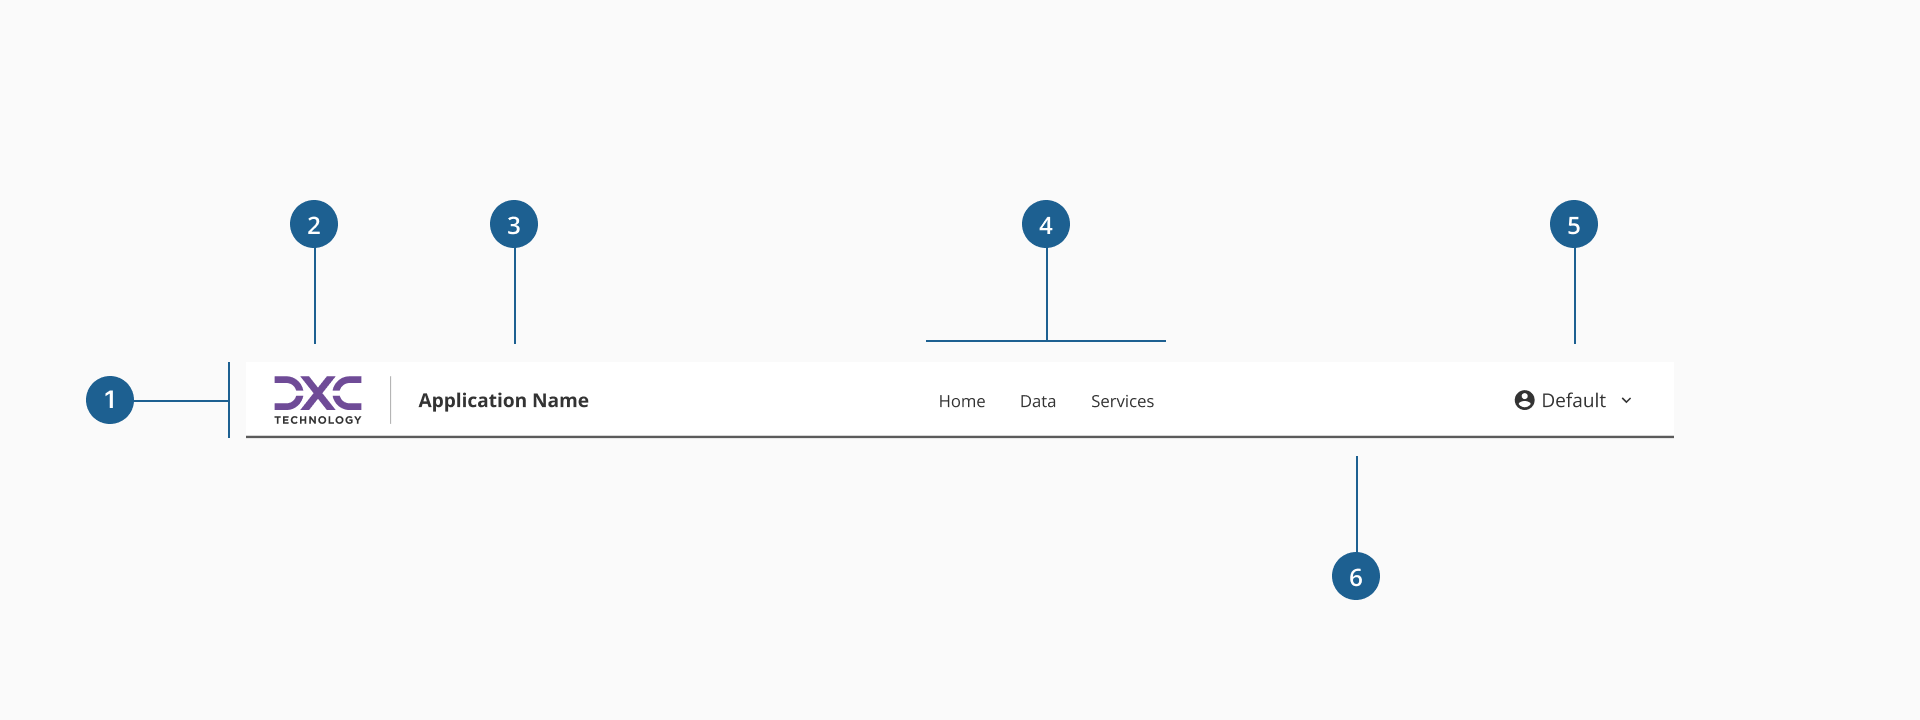
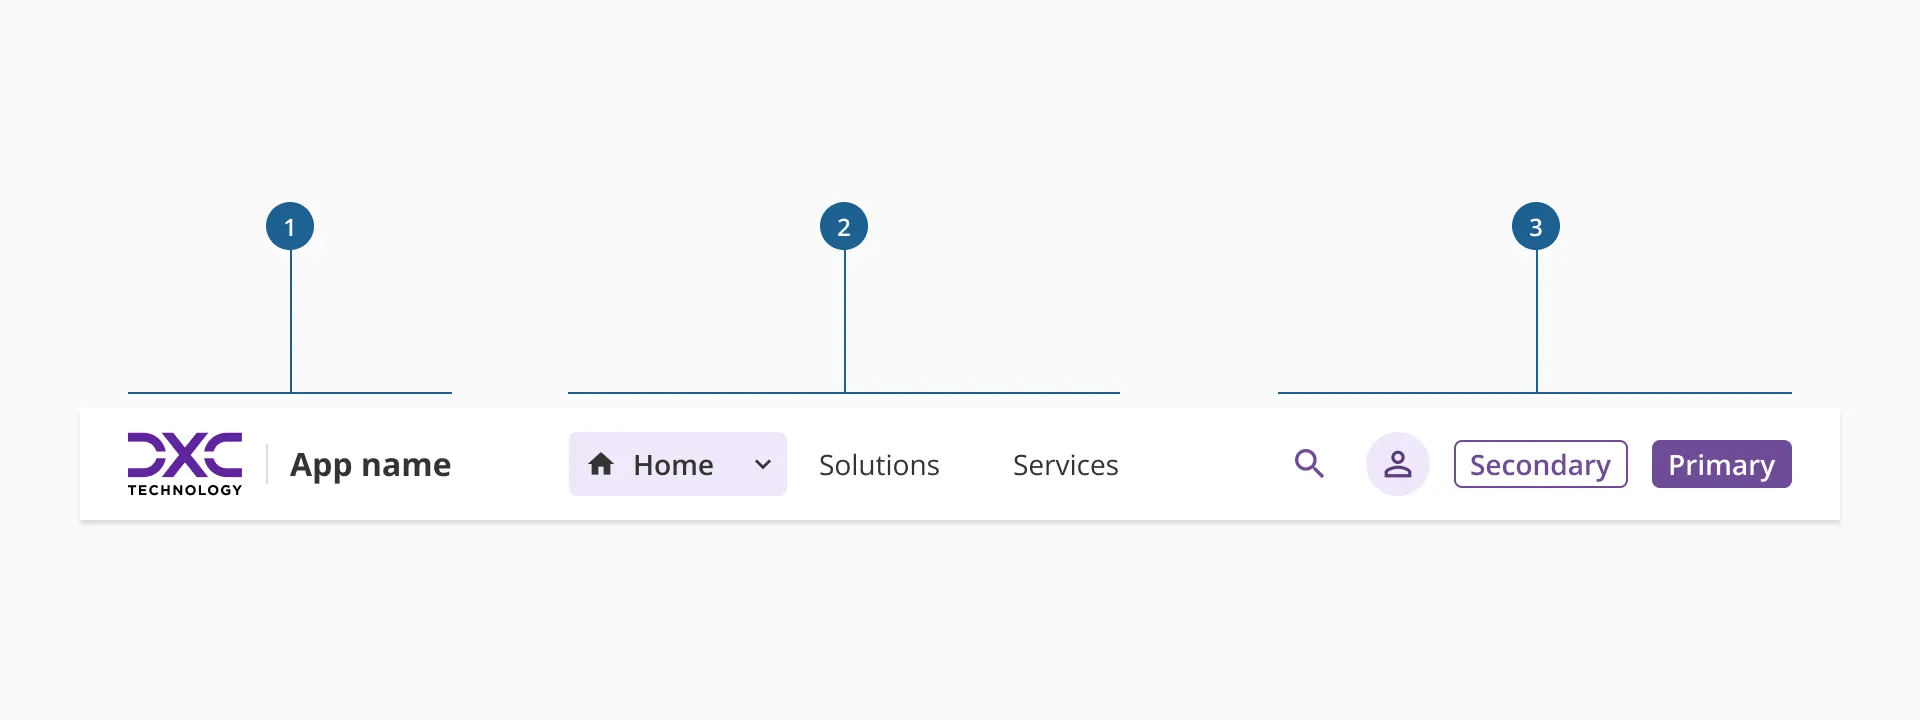
Header new implementation overview documentation

diff --git a/apps/website/screens/components/header/overview/HeaderOverviewPage.tsx b/apps/website/screens/components/header/overview/HeaderOverviewPage.tsx
@@ -1,6 +1,12 @@
 import { DxcBulletedList, DxcFlex, DxcParagraph } from "@dxc-technology/halstack-react";
 import DocFooter from "@/common/DocFooter";
+import Image from "@/common/Image";
+import Figure from "@/common/Figure";
 import QuickNavContainer from "@/common/QuickNavContainer";
+import anatomy from "./images/header_anatomy.png";
+import leftSlot from "./images/left_slot.png";
+import mainNav from "./images/main_nav.png";
+import rightSlot from "./images/right_slot.png";
 
 const sections = [
   {
@@ -8,8 +14,9 @@ const sections = [
     content: (
       <DxcParagraph>
         The Header serves as the primary navigation and identity element for an application. It includes branding, quick
-        access to key sections via navigation links, and a customizable side content. Its consistent presence reinforces
-        brand recognition and improves usability by offering easy navigation and access to quick actions.
+        access to key sections via navigation links, and a user account menu. Its consistent presence reinforces brand
+        recognition and improves usability by offering easy navigation and access to user-related actions. It typically
+        contains three main areas: left slot, main navigation and right slot.
       </DxcParagraph>
     ),
   },
@@ -17,75 +24,217 @@ const sections = [
     title: "Anatomy",
     content: (
       <>
-        {/* <Image src={anatomy} alt="Header anatomy" /> */}
+        <Image src={anatomy} alt="Header anatomy" />
         <DxcBulletedList type="number">
           <DxcBulletedList.Item>
-            <strong>Container:</strong> a layout structure that wraps all Header elements, ensuring consistent
-            alignment, spacing, and maximum width limits. The container helps keep the header properly aligned across
-            different screen sizes.
+            <strong>Left slot:</strong> it's where the branding and application name is displayed.
           </DxcBulletedList.Item>
           <DxcBulletedList.Item>
-            <strong>Brand Image:</strong> a clear, balanced logo that fits well within the header without overpowering
-            other elements.
+            <strong>Main navigation:</strong> a section that allows access to primary and secondary navigational levels,
+            which purposes is to guide the user through the primary levels of the interface.
+            {/* It is also where the searchbar will be displayed once that feature is triggered. */}
           </DxcBulletedList.Item>
           <DxcBulletedList.Item>
-            <strong>Application Name</strong> <em>(Optional)</em>: a short, recognizable application name placed next to
-            the logo to reinforce brand identity.
-          </DxcBulletedList.Item>
-          <DxcBulletedList.Item>
-            <strong>Navigation Links</strong> <em>(Optional)</em>: key links to main sections of the application.
-          </DxcBulletedList.Item>
-          <DxcBulletedList.Item>
-            <strong>Side Content</strong> <em>(Optional)</em>: a customizable area for user-specific actions such as
-            profile, settings, or logout, triggered by click or keyboard focus.
+            <strong>Right slot:</strong> it's the place where all utilities related to an application are hosted. It’s
+            highly adaptable for each product's needs.
           </DxcBulletedList.Item>
         </DxcBulletedList>
       </>
     ),
   },
   {
-    title: "Responsive version",
-    content: (
-      <>
-        <DxcParagraph>
-          Applications are accessed on a wide range of devices, including laptops, tablets, and smartphones. To support
-          this, the header must be designed to scale responsively across screen sizes. The responsive header should
-          preserve the structural layout and visual hierarchy of the desktop version, ensuring consistency and usability
-          across all platforms.
-        </DxcParagraph>
-        <DxcParagraph>
-          "On smaller screens, the header content is replaced by a button. Triggering this button opens a menu that
-          displays navigation links and a bottom section."
-        </DxcParagraph>
-      </>
-    ),
+    title: "Key interactions and features",
+    subSections: [
+      {
+        title: "Left slot",
+        content: (
+          <>
+            <DxcParagraph>
+              The left slot hosts all branding elements of the product, application, or website. It is the visual anchor
+              of the header and helps users quickly identify the environment they are interacting with.
+            </DxcParagraph>
+            <DxcParagraph>
+              The <strong>logo</strong> is a required element in every implementation of the header, ensuring brand
+              presence and recognition across all platforms. It must always be displayed inside a fixed container to
+              maintain consistency in size and alignment with other header elements.
+            </DxcParagraph>
+            <DxcParagraph>
+              The <strong>name</strong> of the product or service is <strong>optional</strong> and can be placed to the
+              right of the logo. When included, it reinforces brand identity and provides additional
+              context—particularly useful in multi-product ecosystems or environments where the logo alone may not be
+              distinctive enough.
+            </DxcParagraph>
+            <DxcParagraph>
+              Both elements together should remain visually balanced, with consistent spacing and vertical alignment,
+              contributing to a cohesive and professional visual hierarchy.
+            </DxcParagraph>
+            <Figure caption="Left slot configuration of the header component.">
+              <Image src={leftSlot} alt="Left slot configuration" />
+            </Figure>
+          </>
+        ),
+      },
+      {
+        title: "Main navigation",
+        content: (
+          <>
+            <DxcParagraph>
+              The main navigation section occupies the central area of the header and serves as the{" "}
+              <strong>primary entry point</strong> for exploring the product or application. It spans the full available
+              width, making it the most visually dominant and functionally important area of the component.
+            </DxcParagraph>
+            <DxcParagraph>
+              Navigation items within this section can be either <strong>single-level links</strong> or{" "}
+              <strong>expandable items</strong> that reveal one additional level of navigation. This two-level limit is
+              intentional and designed to keep the header focused on orientation rather than deep exploration. The goal
+              is to help users understand where they are and move between high-level areas efficiently, while deeper
+              navigation is delegated to components such as the sidenav.
+            </DxcParagraph>
+            {/* <DxcParagraph>
+              When the total width of navigation items exceeds the available horizontal space, the header automatically
+              groups the overflow items into a <strong>new expandable item</strong> (typically labeled "More" or
+              equivalent). This ensures the navigation remains usable and visually balanced across different screen
+              sizes and configurations.
+            </DxcParagraph> */}
+            <DxcParagraph>
+              Each navigation item should provide clear affordances for interaction, indicating whether it leads
+              directly to a section or expands to show sub-options.
+            </DxcParagraph>
+            <Figure caption="Header with expandable content">
+              <Image src={mainNav} alt="Header with expandable content" />
+            </Figure>
+          </>
+        ),
+      },
+      {
+        title: "Right slot",
+        content: (
+          <>
+            <DxcParagraph>
+              The right slot is reserved for <strong>utilities and user actions</strong> that support quick access to
+              key functions within the product or application. It typically includes elements such as search,
+              notifications, settings, help, or user profile; but its configuration is intentionally flexible to adapt
+              to different product contexts.
+            </DxcParagraph>
+            <DxcParagraph>
+              While some elements may be predefined or recommended as part of the default header configuration, this
+              area remains <strong>open and customizable</strong>, allowing teams to include, remove, or reorder actions
+              according to their needs.
+            </DxcParagraph>
+            <DxcParagraph>
+              This flexible structure allows the right slot to serve both standardized and product-specific use cases
+              without compromising the header's overall consistency and usability.
+            </DxcParagraph>
+            <DxcParagraph>
+              However, though this area is open and configurable, we strongly recommend starting from one of the
+              predefined layout examples provided in Halstack. It is also very important not to include too many
+              actions, as it may overload the component and reduce clarity.
+            </DxcParagraph>
+            <Figure caption="Pre-defined utilities in Halstack's header component">
+              <Image src={rightSlot} alt="Right slot configuration" />
+            </Figure>
+          </>
+        ),
+      },
+    ],
   },
   {
     title: "Best practices",
-    content: (
-      <DxcBulletedList>
-        <DxcBulletedList.Item>
-          <strong>Keep the Header minimal and functional:</strong> include only essential elements.
-        </DxcBulletedList.Item>
-        <DxcBulletedList.Item>
-          <strong>Use navigation links correctly:</strong> Only use navigation groups when necessary to organize
-          multiple links logically without overwhelming the top navigation.
-        </DxcBulletedList.Item>
-        <DxcBulletedList.Item>
-          <strong>Avoid overcrowding the Header:</strong> Limit the number of top-level navigation links. Group
-          secondary links inside navigation groups if needed to maintain a clean and user-friendly interface.
-        </DxcBulletedList.Item>
-        <DxcBulletedList.Item>
-          <strong>Display the application name clearly and concisely:</strong> The application name should be readable,
-          short, and not overpower the brand logo. It reinforces brand identity and provides immediate context to users.
-        </DxcBulletedList.Item>
-        <DxcBulletedList.Item>
-          <strong>Design the Header to respond gracefully to smaller screens:</strong> When adapting the Header to
-          mobile or tablet layouts, restructure the side content to preserve both visual clarity and functional
-          hierarchy.
-        </DxcBulletedList.Item>
-      </DxcBulletedList>
-    ),
+    subSections: [
+      {
+        title: "General",
+        content: (
+          <DxcBulletedList>
+            <DxcBulletedList.Item>
+              Use a header in any product that requires clear orientation and structure, especially those that are more
+              than just data dashboards.
+            </DxcBulletedList.Item>
+            <DxcBulletedList.Item>
+              In complex applications, the <strong>combination of the header and the sidenav</strong> provides a solid
+              navigation framework that allows users to move efficiently and understand the product’s structure.
+            </DxcBulletedList.Item>
+            <DxcBulletedList.Item>
+              When designing an application, always consider the <strong>information architecture</strong> and how it
+              will map across the navigation components offered by Halstack. Defining clear hierarchies and dependencies
+              between header and sidenav is essential for usability and a smoother user experience.
+            </DxcBulletedList.Item>
+            <DxcBulletedList.Item>
+              Keep the header focused on <strong>orientation and high-level access</strong>, avoiding turning it into a
+              full navigation menu.
+            </DxcBulletedList.Item>
+          </DxcBulletedList>
+        ),
+      },
+      {
+        title: "Left slot",
+        content: (
+          <DxcBulletedList>
+            <DxcBulletedList.Item>
+              Choose a <strong>compact version of the brand logo</strong> that occupies as little horizontal space as
+              possible. This ensures enough room for other header elements with higher interaction priority.
+            </DxcBulletedList.Item>
+            <DxcBulletedList.Item>
+              When including the product or service name, keep it <strong>short, clear, and recognizable</strong>. Avoid
+              long or redundant titles that compete visually with the navigation items.
+            </DxcBulletedList.Item>
+            <DxcBulletedList.Item>
+              Ensure that the logo maintains sufficient contrast and legibility on different background colors.
+            </DxcBulletedList.Item>
+          </DxcBulletedList>
+        ),
+      },
+      {
+        title: "Main navigation",
+        content: (
+          <DxcBulletedList>
+            <DxcBulletedList.Item>
+              Carefully <strong>evaluate the depth of navigation</strong> before configuring the header. Determine
+              whether the sidenav is needed and design both navigation layers to complement each other rather than
+              overlap in functionality.
+            </DxcBulletedList.Item>
+            <DxcBulletedList.Item>
+              Keep link names <strong>clear, concise, and action-oriented</strong> so users can immediately understand
+              where each link will take them.
+            </DxcBulletedList.Item>
+            <DxcBulletedList.Item>
+              Use <strong>icons sparingly</strong> and only when they add value or clarity. Avoid decorative or overly
+              abstract icons that could create confusion.
+            </DxcBulletedList.Item>
+            <DxcBulletedList.Item>
+              Limit the number of visible items to maintain balance and prevent overflow. When necessary, rely on the
+              automatic grouping ("More" option) for secondary items.
+            </DxcBulletedList.Item>
+          </DxcBulletedList>
+        ),
+      },
+      {
+        title: "Right slot",
+        content: (
+          <DxcBulletedList>
+            <DxcBulletedList.Item>
+              Avoid overloading the header with too many utilities. Keep only the{" "}
+              <strong>most essential actions visible</strong>, and relocate secondary or less frequent actions to other
+              areas such as the sidenav, footer, or dedicated sections.
+            </DxcBulletedList.Item>
+            <DxcBulletedList.Item>
+              Ensure that the <strong>icons used for actions are universal and easily recognizable</strong>. When an
+              icon may not be self-explanatory, provide a tooltip for clarity.
+            </DxcBulletedList.Item>
+            <DxcBulletedList.Item>
+              Group related actions within containers to maintain alignment and logical order.
+            </DxcBulletedList.Item>
+            <DxcBulletedList.Item>
+              Follow accessibility best practices: all icons and actions must have an accessible label and be operable
+              by keyboard.
+            </DxcBulletedList.Item>
+            <DxcBulletedList.Item>
+              Review responsive behavior when adding or removing utilities to ensure the right slot maintains balance
+              and visual stability across viewports.
+            </DxcBulletedList.Item>
+          </DxcBulletedList>
+        ),
+      },
+    ],
   },
 ];
 

diff --git a/apps/website/screens/components/header/HeaderPageLayout.tsx b/apps/website/screens/components/header/HeaderPageLayout.tsx
@@ -17,8 +17,9 @@ const HeaderPageHeading = ({ children }: { children: ReactNode }) => {
         <DxcFlex direction="column" gap="var(--spacing-gap-xl)">
           <ComponentHeading name="Header" />
           <DxcParagraph>
-            A horizontal bar located at the top of the application, providing branding, primary navigation, and user
-            account controls.
+            The header is a structural component placed at the top of the interface. It provides global access to
+            navigation, branding, and user actions, ensuring consistency and orientation across products and
+            applications.
           </DxcParagraph>
           <DxcParagraph>
             The header is part of the application layout, so it can only be used inside of it. Please check the{" "}
